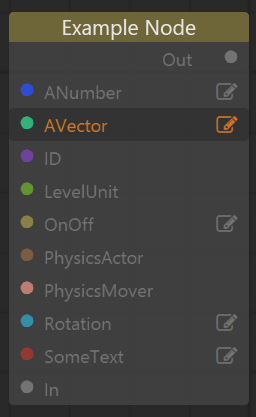
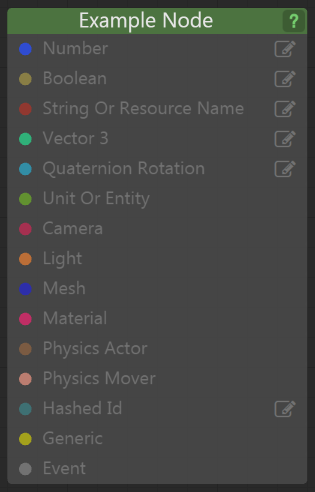
Missing flow colors and more detail about types. [GAME-22658]

diff --git a/source/stingray_help/creating_gameplay/visual-prog_with_flow/flow_node_colors.md b/source/stingray_help/creating_gameplay/visual-prog_with_flow/flow_node_colors.md
@@ -1,20 +1,106 @@
-# Flow Node Colors (Level Flow)
+# Flow Node Colors and Types (Level Flow)
 
-A flow node expects certain types of data for both input and output.  The type of data is signified by its color on the inputs and outputs.  Many nodes have several inputs and outputs of varying data types.  The color is helpful to know what is expected and what is returned from each node (function).
+Each Flow node can take in certain types of input data, and can produce other kinds of output data. Each of the node's input and output connections uses a color to tell you the type of data it handles.
 
-Green: Unit Data
-
-Blue: Numeric Data
-
-Grey: Event Data
-
-Light Brown: Boolean (True/False) Data
-
-Dark Brown: String Data
-
-BlueGreen: ID Data
-
-Teal: Vector 3 Data
-
+These colors are always the same across all nodes. Once you get used to the color conventions, it's a quick visual cue that can help you make connections faster without having to look up the nodes in the [Flow node reference](../../../flow_ref/index.html).
 
 ![](../../images/node_input_colors.png)
+
+<style>
+span.dot {
+	display:inline-block;
+	width:16px;
+	height:16px;
+	border-radius:8px;
+	position:relative;
+	bottom:-2px;
+}
+</style>
+
+<span class="dot" style="background-color:#2F4DD3"></span> Blue: Numbers.
+
+>	Numbers can be integers or decimals, positive or negative.
+>
+>	Look under the **Math > Numeric** category for nodes that can help you work with these numbers.
+
+<span class="dot" style="background-color:#8A7F46"></span> Light Brown: Booleans
+
+>	Booleans can be true or false.
+>
+>	Look under the **Math > Boolean** category for nodes that can help you work with these values.
+>
+>	A common use for Boolean values is to do something different depending on the value -- see the **Flow Control > Branch** for one way you can choose between two alternative Flow graphs depending on whether an input value is true or false.
+
+<span class="dot" style="background-color:#923930"></span> Dark red: Strings
+
+>	Strings are words or phrases of text.
+>
+>	Sometimes you are free to enter any text you want for a string. Other times, you may be constrained to certain pre-set values. For example, if a node requires the name of a certain type of resource in your project, you'll be asked to select one of those resources from your project when you click the ![editable](../../images/icon_edit_shader.png) icon.
+
+<span class="dot" style="background-color:#30B27A"></span> Teal: Vector3 data.
+
+>	These usually represent positions or directions in 3D space.
+>
+>	Look under the **Math > Vector** category for nodes that can help you work with vector data.
+
+<span class="dot" style="background-color:#338EA7"></span> Light blue: Quaternion rotations
+
+>	These values represent rotations in 3D space. Internally, they are expressed as [quaternions](https://en.wikipedia.org/wiki/Quaternion).
+>
+>	Look under the **Math > Rotation** category for nodes that can help you work with quaternion rotations.
+
+<span class="dot" style="background-color:#639230"></span> Green: Units and entities
+
+>	Each green connection represents an individual unit or entity that has been spawned in a level.
+>
+>	In Level Flow, use the **Data > Level Unit** and **Data > Level Entity** nodes to select a unit or entity that you've placed in the level. In Unit Flow, or when setting up a Flow component for an entity, use the special **Me** value to refer to the unit or entity that is using your Flow graph.
+
+<span class="dot" style="background-color:#A73051"></span> Maroon: Cameras
+
+>	These connections represent a camera that is owned by a unit.
+>
+>	The **Camera > Get Active Camera** and **Camera > Set Active Camera** nodes are very handy for working with the camera that is currently being used to render in the main window, but be aware that these nodes only work if your project is using the Appkit. (If you started from a template project and didn't change your boot script, then you're probably using the Appkit).
+>
+>	You can also use **Unit > Get Unit Camera** to get a camera owned by a particular unit.
+
+<span class="dot" style="background-color:#BD6F38"></span> Orange: Lights
+
+>	These connections represent a light that is owned by a unit.
+>
+>	Look in the **Lights** category for nodes that you can use to read and modify a light's properties. You can also use **Unit > Get Unit Light** to get a light owned by a particular unit.
+
+<span class="dot" style="background-color:#2D2EAC"></span> Dark blue: Meshes
+
+>	These connections represent a mesh that is owned by a unit.
+>
+>	You can use **Unit > Get Unit Mesh** to get a mesh owned by a particular unit. At the moment, meshes are mostly useful in order to retrieve the materials that are assigned to its material slots. Use the **Material > Get Mesh Slot Material** and **Material > Get Mesh Slot Material** nodes to do that.
+
+<span class="dot" style="background-color:#C22E66"></span> Magenta: Materials
+
+>	A material connection represents a single instance of a material, which is usually associated with a specific mesh owned by a unit.
+>
+>	You can get a material from a mesh, using the **Material > Get Mesh Slot Material** and **Material > Get Mesh Slot Material** nodes. Once you have this material, you can use the other nodes in the **Material** category to set new values for input variables exposed by that material.
+
+<span class="dot" style="background-color:#7C5C43"></span> Dark brown: Physics actors
+
+<span class="dot" style="background-color:#BD7E71"></span> Salmon: Physics movers
+
+>	Actors and movers are representations of a solid object inside the physics simulation.
+>
+>	Usually, you'll retrieve an actor or a mover using the **Unit > Get Unit Actor** or **Unit > Get Unit Mover** nodes. Once you retrieve the object, you can pass it in as an input to the nodes in the **Physics** category to set and retrieve the properties of the object.
+
+<span class="dot" style="background-color:#3F7174"></span> Slate blue: IDs
+
+>	IDs are hashed representations of strings, which the engine uses internally to keep track of names. For most purposes, you probably won't need to use this data type.
+
+<span class="dot" style="background-color:#A6A31C"></span> Yellow: Generic data
+
+>	A few nodes have *generic* input connections, which can accept any type of object listed above.
+>
+>	For example, the nodes in the **Script** category use generic inputs to accept objects that the node passes on to the Lua function that it runs.
+
+<span class="dot" style="background-color:#737373"></span> Grey: Events
+
+>	Events control the way the Flow graph is evaluated.
+>
+>	A node is triggered when an event gets passed into one of its *input* event slots. The node performs some action in response to that event, and may pass on an event through one or more of its *output* event slots. This in turn triggers any other nodes that have their input event slots connected to those output events. For a thorough discussion, see also ~{ About Flow Evaluation }~.
